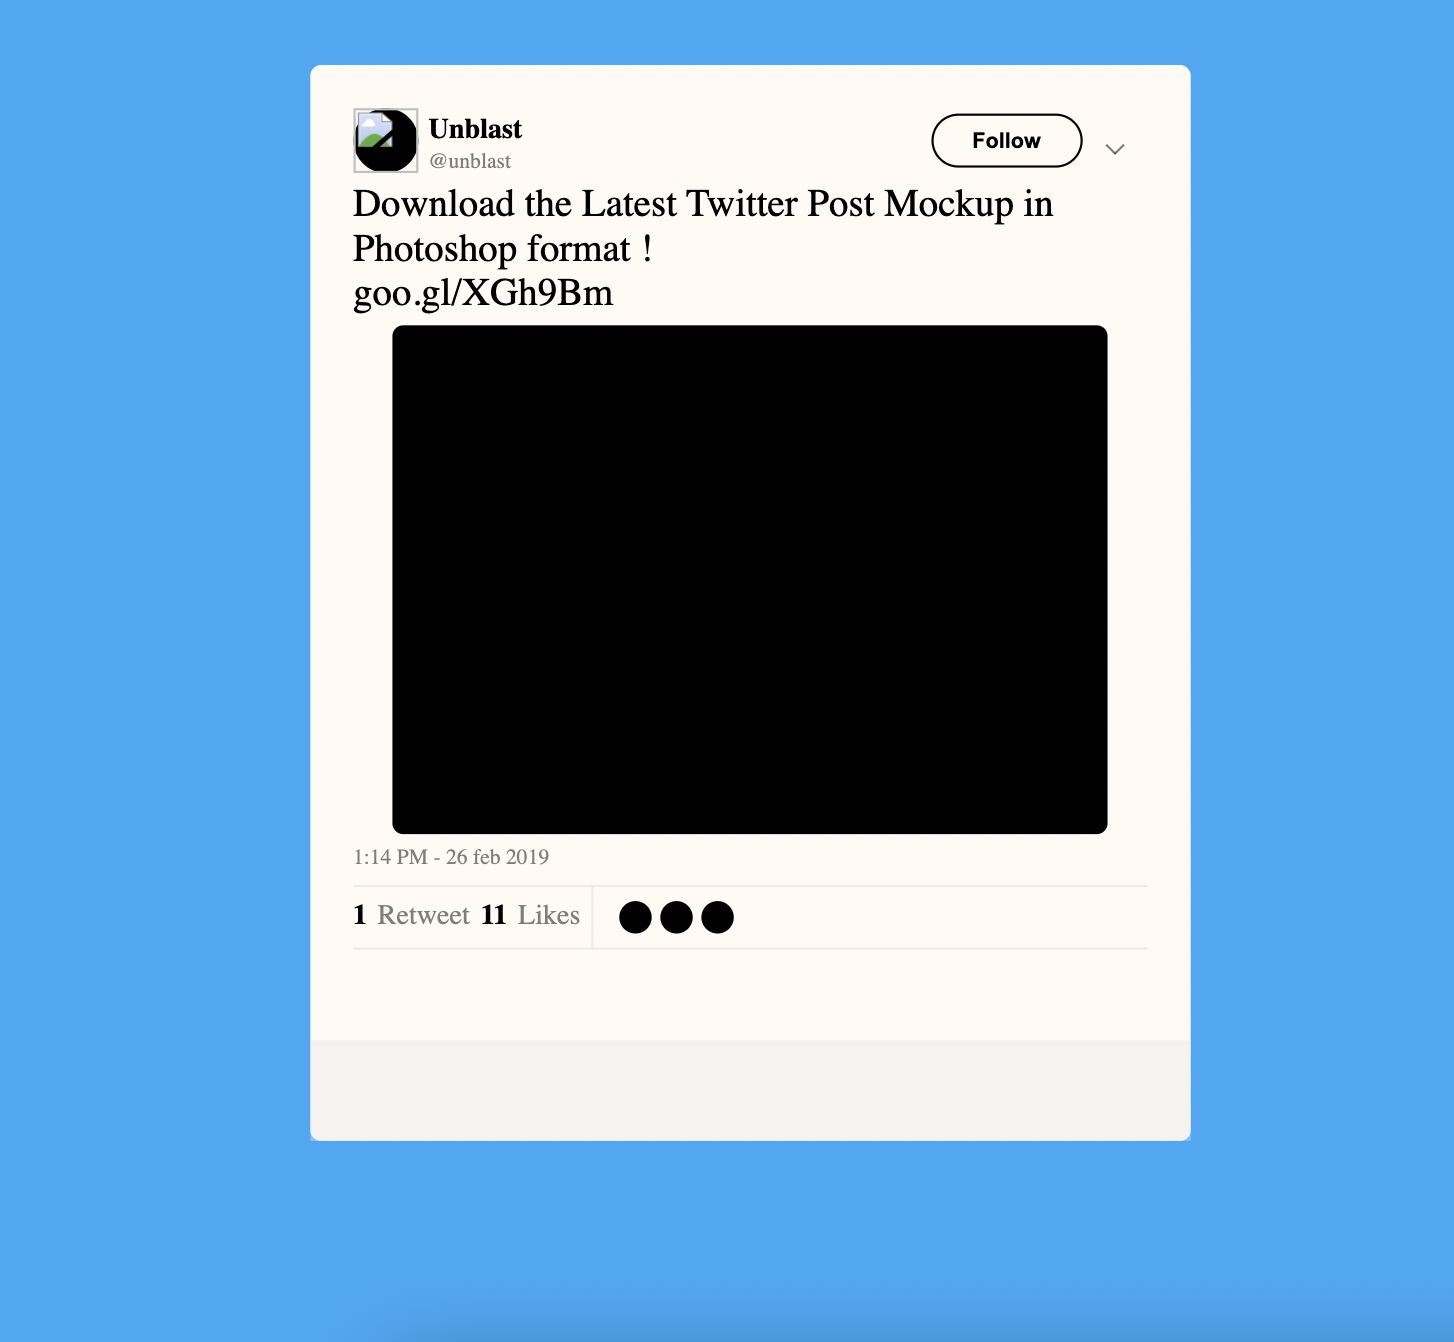
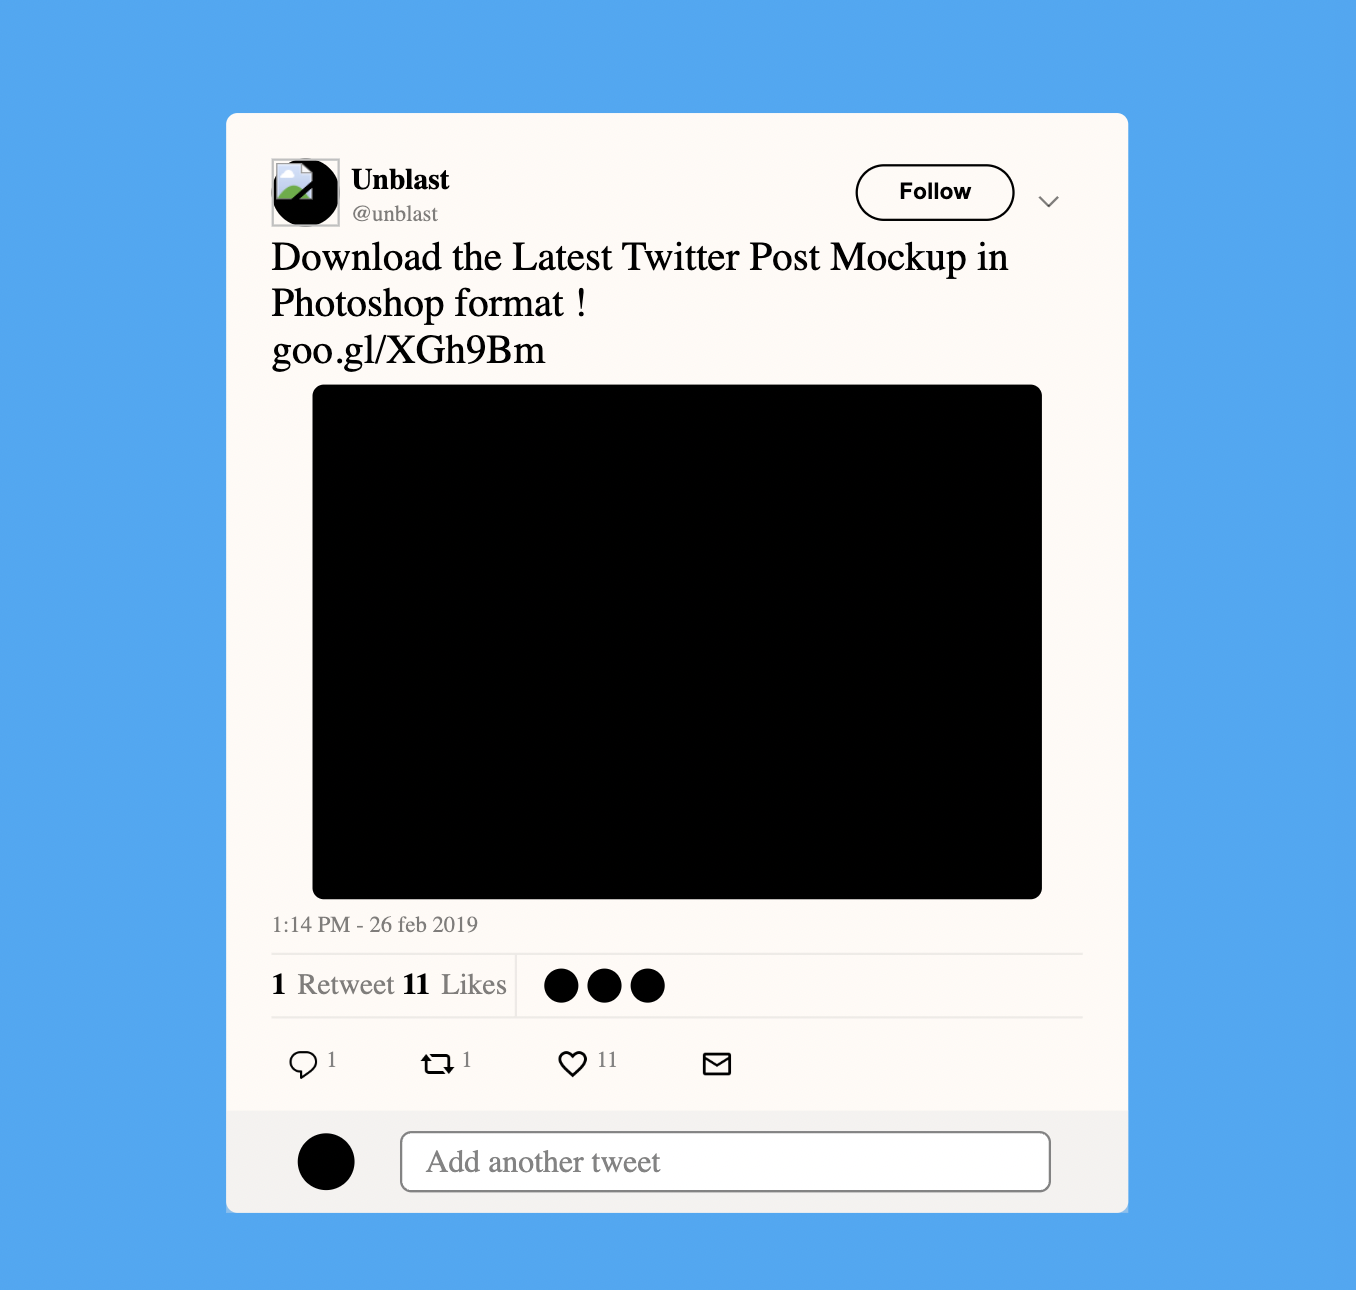
se agregaron iconos de acciones, caja de comentario y se arreglaron estilos que no funcionaban. Falta poner bien la imagen de perfil

Changed region(s): [[0.1549, 0.031, 0.8363, 0.9612], [0.4027, 0.7442, 0.4956, 0.7752]]

diff --git a/public/styles/styles.css b/public/styles/styles.css
@@ -4,6 +4,11 @@
     height: 100vh;
     margin: 0px;
     padding: 0px;
+    display: inline;
+}
+
+title{
+    display: none;
 }
 
 body{
@@ -209,8 +214,10 @@ body{
 }
 
 .postActions{
-    width: 100%;
     height: 9%;
+    width: 100%;
+    display: grid;
+    grid-template-columns: 1fr 1fr 1fr 3fr;
 }
 
 .comment{
@@ -218,4 +225,80 @@ body{
     height: 10%;
     margin-left: -20px;
     background-color: rgba(230, 230, 230, 0.4);
+    display: grid;
+    place-content: center;
+    grid-template-columns: 1fr 6fr;
+}
+
+.replies, 
+.retweets,
+.likes,
+.message{
+    width: 20px;
+    margin-left: 10px;
+    display: grid;
+    place-content: center;
+    grid-template-columns: 1fr 1fr;
+    height: 100%;
+}
+
+.replies>p, 
+.retweets>p,
+.likes>p{
+    font-size: 10px;
+    margin-left: 3px;
+    width: 10px;
+    height: 9%;
+    color: rgba(100, 100, 100, 0.8);
+}
+
+.twitter-reply, 
+.retweet,
+.likeImage,
+.newPostImage{
+    width: 15px;
+    height: 15px;
+    color: rgba(100, 100, 100, 0.8);
+}
+
+.profileImage{
+    width: 25px;
+    height: 25px;
+    border-radius: 50%;
+    background-color: black;
+}
+
+.imageContainer{
+    height: 100%;
+    width: 100%;
+    display: flex;
+    justify-content: flex-end;
+    align-items: center;
+}
+
+.replyBox{
+    height: 100%;
+    width: 90%;
+    display: flex;
+    justify-content: flex-end;
+    align-items: center;
+}
+
+.replyInput{
+    width: 90%;
+    height: 25px;
+    border: 1px solid rgba(100, 100, 100, 0.8);
+    border-radius: 5px;
+    margin-left: 20px;
+    padding: 0px 10px;
+    background-color: white;
+    display: flex;
+    align-items: center;
+}
+
+.replyInput>p{
+    color: rgba(100, 100, 100, 0.8);
+    font-size: 14px;
+    height: auto;
+    width: 100%;
 }

diff --git a/index.html b/index.html
@@ -46,8 +46,49 @@
                 <div class="reactionsImage"></div>
             </div>
         </div>
-        <div class="postActions"></div>
-        <div class="comment"></div>
+        <div class="postActions">
+            <div class="replies">
+                <img 
+                    src="./twitter-reply2.png" 
+                    alt="twitter-reply"
+                    class="twitter-reply"
+                >
+                <p>1</p>
+            </div>
+            <div class="retweets">
+                <img 
+                    src="./retweet.png" 
+                    alt="retweet"
+                    class="retweet"
+                >
+                <p>1</p>
+            </div>
+            <div class="likes">
+                <img 
+                    src="./like.png" 
+                    alt="likes"
+                    class="likeImage"
+                >
+                <p>11</p>
+            </div>
+            <div class="message">
+                <img 
+                    src="./new_post.png" 
+                    alt="send post"
+                    class="newPostImage"
+                >
+            </div>
+        </div>
+        <div class="comment">
+            <div class="imageContainer">
+                <div class="profileImage"></div>
+            </div>
+            <div class="replyBox">
+                <div class="replyInput">
+                    <p>Add another tweet</p>
+                </div>
+            </div>
+        </div>
     </div>
 </body>
 </html>
